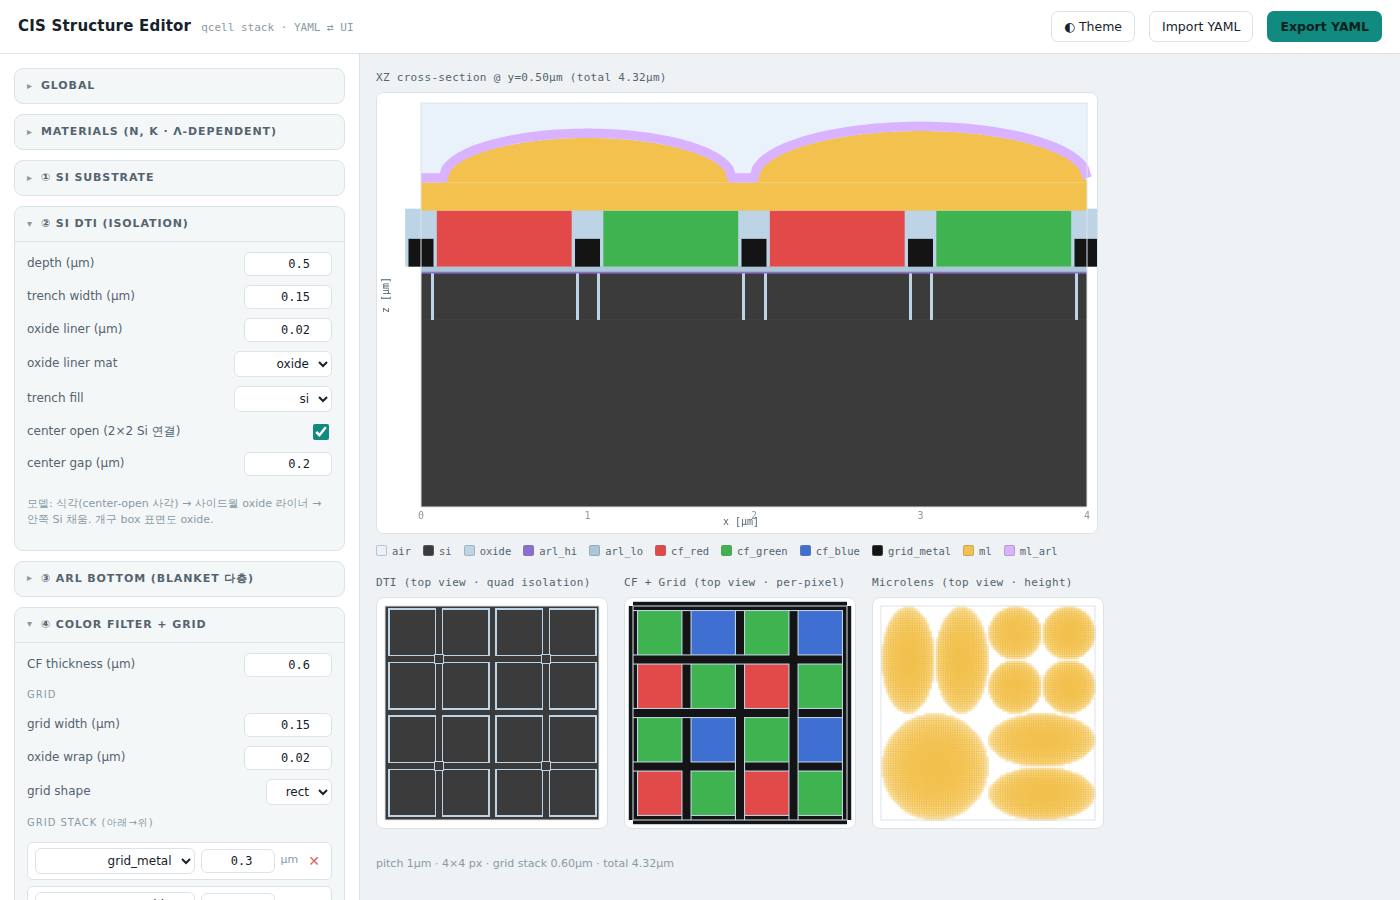
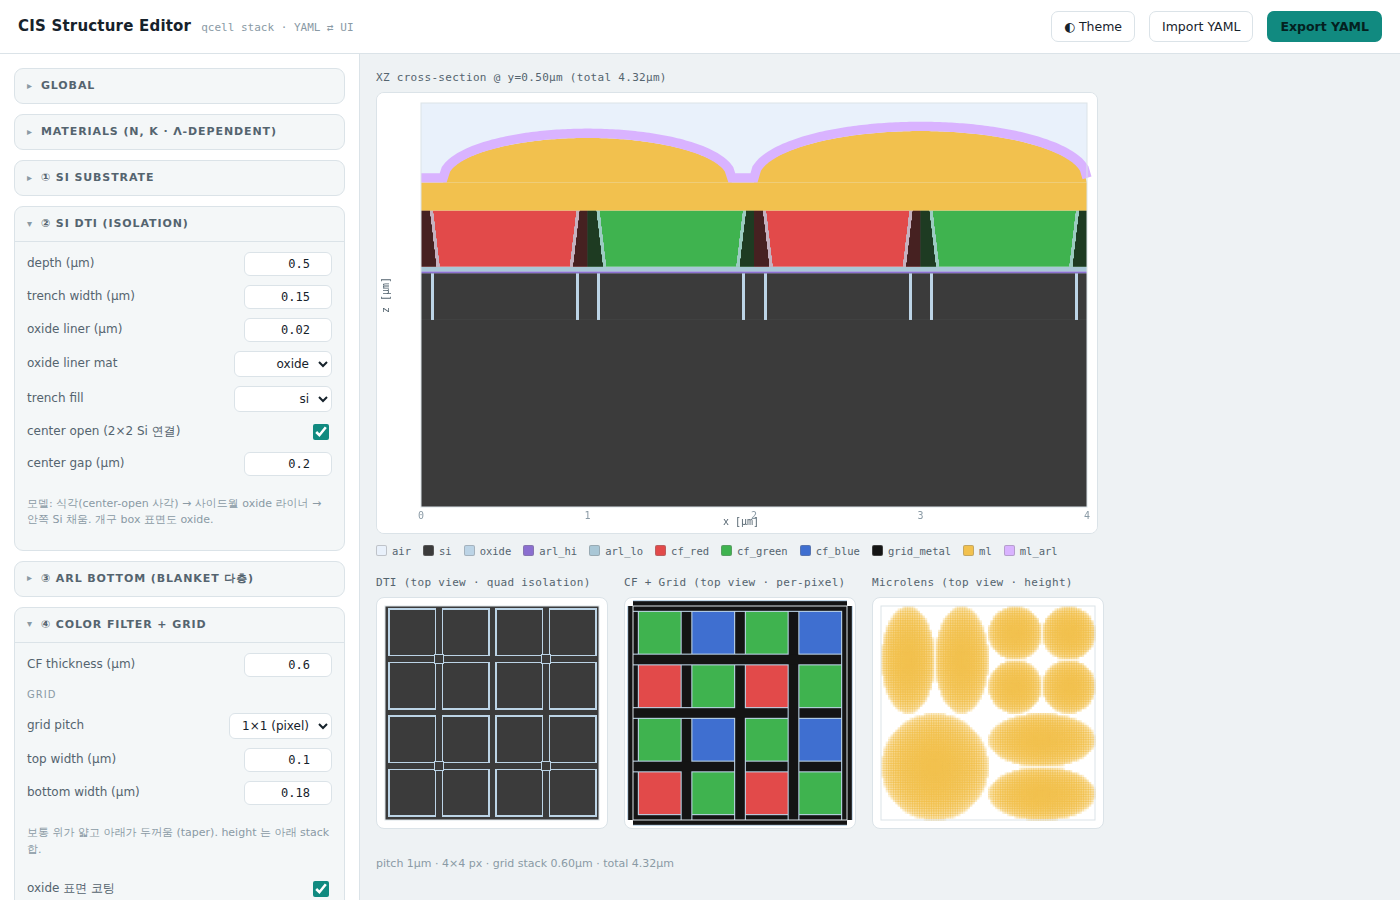
Grid: 1x1/2x2 pitch + top-bottom taper + oxide coat; ML editor free 2D drag
- structure_editor grid: pitch(1x1 pixel / 2x2 quad), top/bottom width taper
  (위 얇고 아래 두꺼움), oxide 표면 코팅 옵션, 다층 stack(동일물질 연결).
  gridMatAt(x,zf) 로 XZ taper rasterize + top-view 갱신.
- ml_shape_editor: 제어점을 자유 2D 위치(pts)로 -> 핸들 자유 이동(반경 제약
  버그 해결). 경계/dome/height/export 를 ray-cast B(theta) 로 재구성.

Claude-Session: https://claude.ai/code/session_01TWsubYhc5KeSwgcdPsEJZM

diff --git a/cis_rcwa/editors/ml_shape_editor.html b/cis_rcwa/editors/ml_shape_editor.html
@@ -266,34 +266,35 @@ function enumerateLenses(quads){
   return out;
 }
 
+function initPts(){ const p=[]; for(let k=0;k<NCTRL;k++){ const a=2*Math.PI*k/NCTRL; p.push({x:Math.cos(a),y:Math.sin(a)}); } return p; }
 function rebuildLenses(){
   const prev = state.lenses, next = {};
   for(const [id,cx,cy,ax,ay] of enumerateLenses(state.quads)){
-    const m = (prev[id] && prev[id].m) ? prev[id].m.slice() : new Array(NCTRL).fill(1);
-    next[id] = {cx,cy,ax,ay,m};
+    const pts = (prev[id] && prev[id].pts) ? prev[id].pts.map(p=>({x:p.x,y:p.y})) : initPts();
+    next[id] = {cx,cy,ax,ay,pts};
   }
   state.lenses = next;
   if(!state.selected || !next[state.selected]) state.selected = Object.keys(next)[0]||null;
 }
 
-// --- m(NCTRL) -> B(theta) periodic linear interp ---
-function interpM(m, ang){                 // ang in [0,2pi)
-  const step = 2*Math.PI/NCTRL;
-  let f = ang/step, i0 = Math.floor(f)%NCTRL, t = f-Math.floor(f);
-  const i1 = (i0+1)%NCTRL;
-  return m[i0]*(1-t) + m[i1]*t;
+// --- B(theta): 자유 제어점 다각형에 대한 ray-cast 반경 (정규화 좌표, 이상원=1) ---
+function radiusAt(L, ang){
+  const dx=Math.cos(ang), dy=Math.sin(ang), N=L.pts.length; let best=null;
+  for(let k=0;k<N;k++){ const a=L.pts[k], b=L.pts[(k+1)%N];
+    const ex=b.x-a.x, ey=b.y-a.y, det=ex*dy-dx*ey;
+    if(Math.abs(det)<1e-12) continue;
+    const t=(ex*a.y-ey*a.x)/det, s=(dx*a.y-dy*a.x)/det;
+    if(t>1e-9 && s>=-1e-6 && s<=1+1e-6){ if(best===null||t>best) best=t; }
+  }
+  return best!==null?best:1;
 }
-function mToBtheta(m){
-  const b = new Array(NTHETA);
-  for(let k=0;k<NTHETA;k++){ b[k] = interpM(m, 2*Math.PI*k/NTHETA); }
-  return b;
-}
+function ptsToBtheta(L){ const b=new Array(NTHETA); for(let k=0;k<NTHETA;k++) b[k]=radiusAt(L,2*Math.PI*k/NTHETA); return b; }
 
 // --- dome height (volume 보존) : h = V0 / unitVol ---
 function computeHeight(L){
-  const {ax,ay,m} = L;
-  const N = 64;                            // 적분 격자 (normalized bbox)
-  const d = 2*MAX_M/N, dA = (d*ax)*(d*ay); // µm^2
+  const {ax,ay} = L;
+  const N = 64;
+  const d = 2*MAX_M/N, dA = (d*ax)*(d*ay);
   let unit = 0;
   for(let i=0;i<N;i++){
     const u = -MAX_M + (i+0.5)*d;
@@ -301,33 +302,33 @@ function computeHeight(L){
       const v = -MAX_M + (j+0.5)*d;
       const rho = Math.hypot(u,v); if(rho<1e-9){ unit += 1*dA; continue; }
       let ang = Math.atan2(v,u); if(ang<0) ang+=2*Math.PI;
-      const B = interpM(m, ang);
+      const B = radiusAt(L, ang);
       if(rho<=B){ const r=rho/B; unit += Math.sqrt(Math.max(0,1-r*r))*dA; }
     }
   }
   const V0 = H0*(2/3)*Math.PI*ax*ay;
   return unit>0 ? V0/unit : H0;
 }
-function isDeformed(L){ return L.m.some(v=>Math.abs(v-1)>1e-3); }
+function isDeformed(L){ return L.pts.some(p=>Math.abs(Math.hypot(p.x,p.y)-1)>1e-3); }
 
-// --- presets: 방향성 변형을 m 에 적용 (strength 0..1) ---
+// --- presets: 방향성 변형을 제어점에 적용 (strength 0..1) ---
 function applyShape(L, kind, s){
-  const m = new Array(NCTRL).fill(1);
+  const pts=[];
   for(let k=0;k<NCTRL;k++){
     const a = 2*Math.PI*k/NCTRL;
     let d=0;
     switch(kind){
-      case "ellipse_x": d =  Math.cos(2*a); break;         // x 방향 팽창
+      case "ellipse_x": d =  Math.cos(2*a); break;
       case "ellipse_y": d = -Math.cos(2*a); break;
-      case "square":    d =  0.32*Math.cos(4*a); break;    // 각짐
-      case "tri":       d =  Math.cos(3*a); break;         // 3-lobe
+      case "square":    d =  0.32*Math.cos(4*a); break;
+      case "tri":       d =  Math.cos(3*a); break;
       case "pear":      d =  Math.cos(a) - 0.35*Math.cos(2*a); break;
       default: d=0;
     }
-    m[k] = 1 + s*d;
-    m[k] = Math.min(MAX_M, Math.max(MIN_M, m[k]));
+    const r = Math.min(MAX_M, Math.max(MIN_M, 1 + s*d));
+    pts.push({x:r*Math.cos(a), y:r*Math.sin(a)});
   }
-  L.m = m;
+  L.pts = pts;
 }
 
 // ---------------------------------------------------------------------------
@@ -386,17 +387,12 @@ function hexA(hex, a){
   const n=parseInt(hex,16); return `rgba(${(n>>16)&255},${(n>>8)&255},${n&255},${a})`;
 }
 
-function lensBoundaryPts(L, n){
-  const pts=[];
-  for(let k=0;k<n;k++){
-    const a=2*Math.PI*k/n, B=interpM(L.m,a);
-    pts.push([L.cx + L.ax*B*Math.cos(a), L.cy + L.ay*B*Math.sin(a)]);
-  }
-  return pts;
+function lensBoundaryPts(L){
+  return L.pts.map(p=>[L.cx + L.ax*p.x, L.cy + L.ay*p.y]);
 }
 function drawLens(id, sel){
   const L=state.lenses[id];
-  const pts=lensBoundaryPts(L, 96);
+  const pts=lensBoundaryPts(L);
   vctx.beginPath();
   pts.forEach((p,i)=> i? vctx.lineTo(X(p[0]),Y(p[1])) : vctx.moveTo(X(p[0]),Y(p[1])));
   vctx.closePath();
@@ -420,10 +416,9 @@ function drawLens(id, sel){
       k?vctx.lineTo(X(x),Y(y)):vctx.moveTo(X(x),Y(y)); }
     vctx.setLineDash([4,4]); vctx.strokeStyle=hexA(css("--ink-dim"),.7); vctx.lineWidth=1; vctx.stroke();
     vctx.setLineDash([]);
-    // control 핸들
+    // control 핸들 (자유 이동)
     for(let k=0;k<NCTRL;k++){
-      const a=2*Math.PI*k/NCTRL, B=L.m[k];
-      const x=L.cx+L.ax*B*Math.cos(a), y=L.cy+L.ay*B*Math.sin(a);
+      const x=L.cx+L.ax*L.pts[k].x, y=L.cy+L.ay*L.pts[k].y;
       vctx.beginPath(); vctx.arc(X(x),Y(y),5,0,2*Math.PI);
       vctx.fillStyle=css("--accent"); vctx.fill();
       vctx.lineWidth=1.5; vctx.strokeStyle=css("--bg"); vctx.stroke();
@@ -452,22 +447,23 @@ function drawCross(){
   cctx.strokeStyle=hexA(css("--line"),1); cctx.lineWidth=1;
   cctx.beginPath(); cctx.moveTo(padX,y0); cctx.lineTo(W-padX,y0); cctx.stroke();
   // 이상형 (점선)
-  function profile(mArr, off){
+  function profile(Ldef){   // Ldef=null 이면 이상원, 아니면 변형 렌즈
     cctx.beginPath(); let started=false;
     for(let px=-xspan/2; px<=xspan/2; px+=xspan/240){
-      const u=px/L.ax; let ang = u>=0?0:Math.PI; const B=interpM(mArr,ang);
+      const u=px/L.ax; let ang = u>=0?0:Math.PI;
+      const B = Ldef ? radiusAt(Ldef,ang) : 1;
       const rho=Math.abs(u); let s=0;
       if(rho<=B){ const rr=rho/B; s=Math.sqrt(Math.max(0,1-rr*rr)); }
-      const hh = mArr===L.m ? h : H0;
+      const hh = Ldef ? h : H0;
       const X=x0+px*sx, Yv=y0 - s*hh*sy;
       if(s>0||started){ started?cctx.lineTo(X,Yv):cctx.moveTo(X,Yv); started=true; }
     }
     cctx.stroke();
   }
   cctx.setLineDash([4,4]); cctx.strokeStyle=hexA(css("--ink-dim"),.8); cctx.lineWidth=1.2;
-  profile(new Array(NCTRL).fill(1));
+  profile(null);
   cctx.setLineDash([]); cctx.strokeStyle=css("--amber"); cctx.lineWidth=2;
-  profile(L.m);
+  profile(L);
   document.getElementById("crossCap").textContent =
     `cross-section · ${state.selected} · h=${h.toFixed(3)}µm  (ideal ${H0}µm dashed)`;
 }
@@ -487,8 +483,7 @@ view.addEventListener("pointerdown", ev=>{
   const sel=state.selected && state.lenses[state.selected];
   if(sel){
     for(let k=0;k<NCTRL;k++){
-      const a=2*Math.PI*k/NCTRL, B=sel.m[k];
-      const hx=sel.cx+sel.ax*B*Math.cos(a), hy=sel.cy+sel.ay*B*Math.sin(a);
+      const hx=sel.cx+sel.ax*sel.pts[k].x, hy=sel.cy+sel.ay*sel.pts[k].y;
       if(Math.hypot(X(hx)-X(ux),Y(hy)-Y(uy))<9){ drag={id:state.selected,k}; view.setPointerCapture(ev.pointerId); return; }
     }
   }
@@ -497,7 +492,7 @@ view.addEventListener("pointerdown", ev=>{
   for(const id in state.lenses){ const L=state.lenses[id];
     const u=(ux-L.cx)/L.ax, v=(uy-L.cy)/L.ay, rho=Math.hypot(u,v);
     let ang=Math.atan2(v,u); if(ang<0)ang+=2*Math.PI;
-    if(rho<=interpM(L.m,ang)) pick=id;
+    if(rho<=radiusAt(L,ang)) pick=id;
   }
   if(pick){ state.selected=pick; syncPanel(); draw(); }
 });
@@ -505,10 +500,11 @@ view.addEventListener("pointermove", ev=>{
   if(!drag) return;
   const [ux,uy]=ptUM(ev);
   const L=state.lenses[drag.id];
-  const u=(ux-L.cx)/L.ax, v=(uy-L.cy)/L.ay;
-  let m=Math.hypot(u,v);
-  m=Math.min(MAX_M,Math.max(MIN_M,m));
-  L.m[drag.k]=m;
+  let u=(ux-L.cx)/L.ax, v=(uy-L.cy)/L.ay;   // 정규화 좌표 (자유 2D)
+  const r=Math.hypot(u,v);
+  if(r>MAX_M){ u*=MAX_M/r; v*=MAX_M/r; }         // 반경만 clamp, 방향은 자유
+  else if(r<MIN_M && r>1e-6){ u*=MIN_M/r; v*=MIN_M/r; }
+  L.pts[drag.k]={x:u, y:v};
   draw(); syncPanelLight();
 });
 view.addEventListener("pointerup", ev=>{ if(drag){ drag=null; syncPanel(); } });
@@ -577,12 +573,12 @@ function applyPreset(){
 }
 document.getElementById("resetLens").addEventListener("click",()=>{
   const L=state.selected&&state.lenses[state.selected]; if(!L)return;
-  L.m=new Array(NCTRL).fill(1);
+  L.pts=initPts();
   document.getElementById("preset").value="none"; document.getElementById("strength").value=0;
   draw(); buildLensList(); syncPanelLight();
 });
 document.getElementById("resetAll").addEventListener("click",()=>{
-  for(const id in state.lenses) state.lenses[id].m=new Array(NCTRL).fill(1);
+  for(const id in state.lenses) state.lenses[id].pts=initPts();
   document.getElementById("preset").value="none"; document.getElementById("strength").value=0;
   draw(); buildLensList(); syncPanelLight();
 });
@@ -594,7 +590,7 @@ function buildExport(){
   const deformations={};
   for(const id in state.lenses){
     const L=state.lenses[id];
-    if(isDeformed(L)) deformations[id]={b_theta: mToBtheta(L.m).map(v=>+v.toFixed(4))};
+    if(isDeformed(L)) deformations[id]={b_theta: ptsToBtheta(L).map(v=>+v.toFixed(4))};
   }
   return {schema:"cis_ml_shapes/1", n_theta:NTHETA, pitch_um:PITCH,
           sag_height_um:H0, quads:state.quads, deformations};

diff --git a/cis_rcwa/editors/structure_editor.html b/cis_rcwa/editors/structure_editor.html
@@ -247,8 +247,8 @@ const DEFAULT = {
     dti:{ depth_um:0.50, wall_width_um:0.15, oxide_liner_um:0.02, liner:"oxide", fill:"si", center_open:true, center_gap_um:0.20 },
     arl_bottom:[ {material:"arl_hi",thickness_um:0.02}, {material:"arl_lo",thickness_um:0.05} ],
     color_filter:{ thickness_um:0.60,
-      grid:{ width_um:0.15, shape:"rect", oxide_wrap_um:0.02,
-        stack:[ {material:"grid_metal",thickness_um:0.30}, {material:"oxide",thickness_um:0.30} ] } },
+      grid:{ pitch:1, top_width_um:0.10, bottom_width_um:0.18, oxide_coat:true, oxide_wrap_um:0.02,
+        stack:[ {material:"grid_metal",thickness_um:0.30}, {material:"grid_metal",thickness_um:0.30} ] } },
     ml_planar:{ thickness_um:0.30, material:"ml" },
     microlens:{ sag_height_um:0.55, material:"ml",
       quads:[[{shape:"2x2"},{shape:"2x1",orient:"h"}],[{shape:"2x1",orient:"v"},{shape:"1x1"}]] },
@@ -291,6 +291,19 @@ function css(v){return getComputedStyle(document.documentElement).getPropertyVal
 const P = ()=>S.grid.pixel_pitch_um, NP = ()=>S.grid.n_pixels;
 function stackTotalGrid(){ return S.stack.color_filter.grid.stack.reduce((a,s)=>a+ +s.thickness_um,0); }
 function colorMat(c){ return {R:"cf_red",G:"cf_green",B:"cf_blue"}[c]; }
+// Grid 물질 판정: x(um), zf(0=아래..1=위) -> 물질명 | null(CF).  taper + 다층 + oxide 코팅
+function gridMatAt(x, zf){
+  const g=S.stack.color_filter.grid, p=P();
+  const per=(g.pitch||1)*p, tw=+g.top_width_um, bw=+g.bottom_width_um;
+  const ow=g.oxide_coat? +(g.oxide_wrap_um||0):0;
+  const w=bw+(tw-bw)*zf;                                  // 위 얇고 아래 두꺼움
+  const d=Math.abs(x-Math.round(x/per)*per);
+  if(d>w/2+ow) return null;                               // CF 영역
+  if(d>w/2) return "oxide";                               // 표면 oxide 코팅
+  const H=stackTotalGrid(); let zz=zf*H, acc=0;           // 다층: zf 로 sublayer 결정
+  for(const sub of g.stack){ acc+=+sub.thickness_um; if(zz<=acc+1e-9) return sub.material; }
+  return g.stack.length? g.stack[g.stack.length-1].material : "grid_metal";
+}
 
 // ML sag (단면/topview 공용): (x,y) um -> 표면 높이(um)
 function mlSag(x,y){
@@ -365,16 +378,13 @@ function drawXZ(){
   z+=dth;
   // 3) ARL bottom (blanket 다층)
   for(const l of s.arl_bottom){ rect(0,span,z,z+ +l.thickness_um,matColor(l.material)); z+=+l.thickness_um; }
-  // 4) CF + grid
-  const cf0=z;
-  // CF 색 (픽셀별) 배경
-  for(let c=0;c<np;c++){ const col=colorMat(S.bayer[Math.max(0,Math.min(np-1,Math.floor(cutY/p)))][c]);
-    rect(c*p,(c+1)*p,z,z+ +s.color_filter.thickness_um,matColor(col)); }
-  // grid columns (모든 pixel 경계) : oxide wrap + stack
-  { const g=s.color_filter.grid, wm=+g.width_um, ow=+g.oxide_wrap_um, gt=stackTotalGrid();
-    for(let b=0;b<=np;b++){ const xb=b*p;
-      rect(xb-(wm/2+ow),xb+(wm/2+ow),z,z+gt+ow,matColor("oxide"));   // wrap
-      let zz=z; for(const sub of g.stack){ rect(xb-wm/2,xb+wm/2,zz,zz+ +sub.thickness_um,matColor(sub.material)); zz+=+sub.thickness_um; } } }
+  // 4) CF + grid  (CF 색 배경 위에 grid 를 taper/다층/oxide코팅 rasterize)
+  { const rowIdx=Math.max(0,Math.min(np-1,Math.floor(cutY/p)));
+    for(let c=0;c<np;c++) rect(c*p,(c+1)*p,z,z+ +s.color_filter.thickness_um,matColor(colorMat(S.bayer[rowIdx][c])));
+    const gt=stackTotalGrid(), wpx=Math.round(W-padL-padR), hpx=Math.max(1,Math.round(gt*sz));
+    for(let px=0;px<wpx;px++){ const x=px/sx;
+      for(let pz=0;pz<hpx;pz++){ const zf=1-(pz+0.5)/hpx; const m=gridMatAt(x,zf); if(!m) continue;
+        ctx.fillStyle=matColor(m); ctx.fillRect(padL+px, Z(z+gt)+pz, 1, 1); } } }
   z+=cfH;
   // 5) ML planar
   rect(0,span,z,z+ +s.ml_planar.thickness_um,matColor(s.ml_planar.material)); z+=+s.ml_planar.thickness_um;
@@ -427,10 +437,11 @@ function renderTops(){
   drawTop("tvCf",(ctx,g)=>{
     for(let r=0;r<np;r++)for(let c=0;c<np;c++){ ctx.fillStyle=matColor(colorMat(S.bayer[r][c]));
       ctx.fillRect(g.X(c*p)+1,g.Y((r+1)*p)+1,p*g.sc-2,p*g.sc-2); }
-    const gr=S.stack.color_filter.grid, wm=+gr.width_um, ow=+gr.oxide_wrap_um, w=wm+2*ow;
-    for(let b=0;b<=np;b++){ const c=b*p;
+    const gr=S.stack.color_filter.grid, per=(gr.pitch||1)*p, wm=+gr.bottom_width_um,
+          ow=gr.oxide_coat?+(gr.oxide_wrap_um||0):0, w=wm+2*ow, gm=gr.stack[0]?gr.stack[0].material:"grid_metal";
+    for(let c=0;c<=g.span+1e-6;c+=per){
       ctx.fillStyle=matColor("oxide"); ctx.fillRect(g.X(c-w/2),g.Y(g.span),w*g.sc,g.span*g.sc); ctx.fillRect(g.X(0),g.Y(c+w/2),g.span*g.sc,w*g.sc);
-      ctx.fillStyle=matColor("grid_metal"); ctx.fillRect(g.X(c-wm/2),g.Y(g.span),wm*g.sc,g.span*g.sc); ctx.fillRect(g.X(0),g.Y(c+wm/2),g.span*g.sc,wm*g.sc);
+      ctx.fillStyle=matColor(gm); ctx.fillRect(g.X(c-wm/2),g.Y(g.span),wm*g.sc,g.span*g.sc); ctx.fillRect(g.X(0),g.Y(c+wm/2),g.span*g.sc,wm*g.sc);
     }
   });
   // ML height
@@ -554,13 +565,19 @@ function buildSide(){
 
   // CF + grid
   const cf=S.stack.color_filter, gr=cf.grid;
+  const gpit=h("select",{}); [["1","1×1 (pixel)"],["2","2×2 (quad)"]].forEach(([v,t])=>{const o=h("option",{value:v},[t]); if(String(gr.pitch||1)===v)o.selected=true; gpit.appendChild(o);});
+  gpit.onchange=()=>{gr.pitch=parseInt(gpit.value); render();};
+  const gcoat=h("input",{type:"checkbox"}); gcoat.checked=gr.oxide_coat!==false; gcoat.onchange=()=>{gr.oxide_coat=gcoat.checked; render();};
   side.appendChild(card("④ Color Filter + Grid", true,[
     numRow("CF thickness (µm)",cf,"thickness_um"),
     h("div",{class:"seclbl"},["grid"]),
-    numRow("grid width (µm)",gr,"width_um"),
-    numRow("oxide wrap (µm)",gr,"oxide_wrap_um"),
-    h("div",{class:"row"},[h("label",{},["grid shape"]),(()=>{const sel=h("select",{});["rect","taper"].forEach(v=>{const o=h("option",{value:v},[v]);if(gr.shape===v)o.selected=true;sel.appendChild(o);});sel.onchange=()=>{gr.shape=sel.value;render();};return sel;})()]),
-    h("div",{class:"seclbl"},["grid stack (아래→위)"]),
+    h("div",{class:"row"},[h("label",{},["grid pitch"]),gpit]),
+    numRow("top width (µm)",gr,"top_width_um"),
+    numRow("bottom width (µm)",gr,"bottom_width_um"),
+    h("p",{class:"hint"},["보통 위가 얇고 아래가 두꺼움 (taper). height 는 아래 stack 합."]),
+    h("div",{class:"row"},[h("label",{},["oxide 표면 코팅"]),gcoat]),
+    numRow("oxide coat (µm)",gr,"oxide_wrap_um"),
+    h("div",{class:"seclbl"},["grid stack (아래→위) · 동일물질 연결"]),
     sublistEditor(gr.stack, true),
   ]));
 
